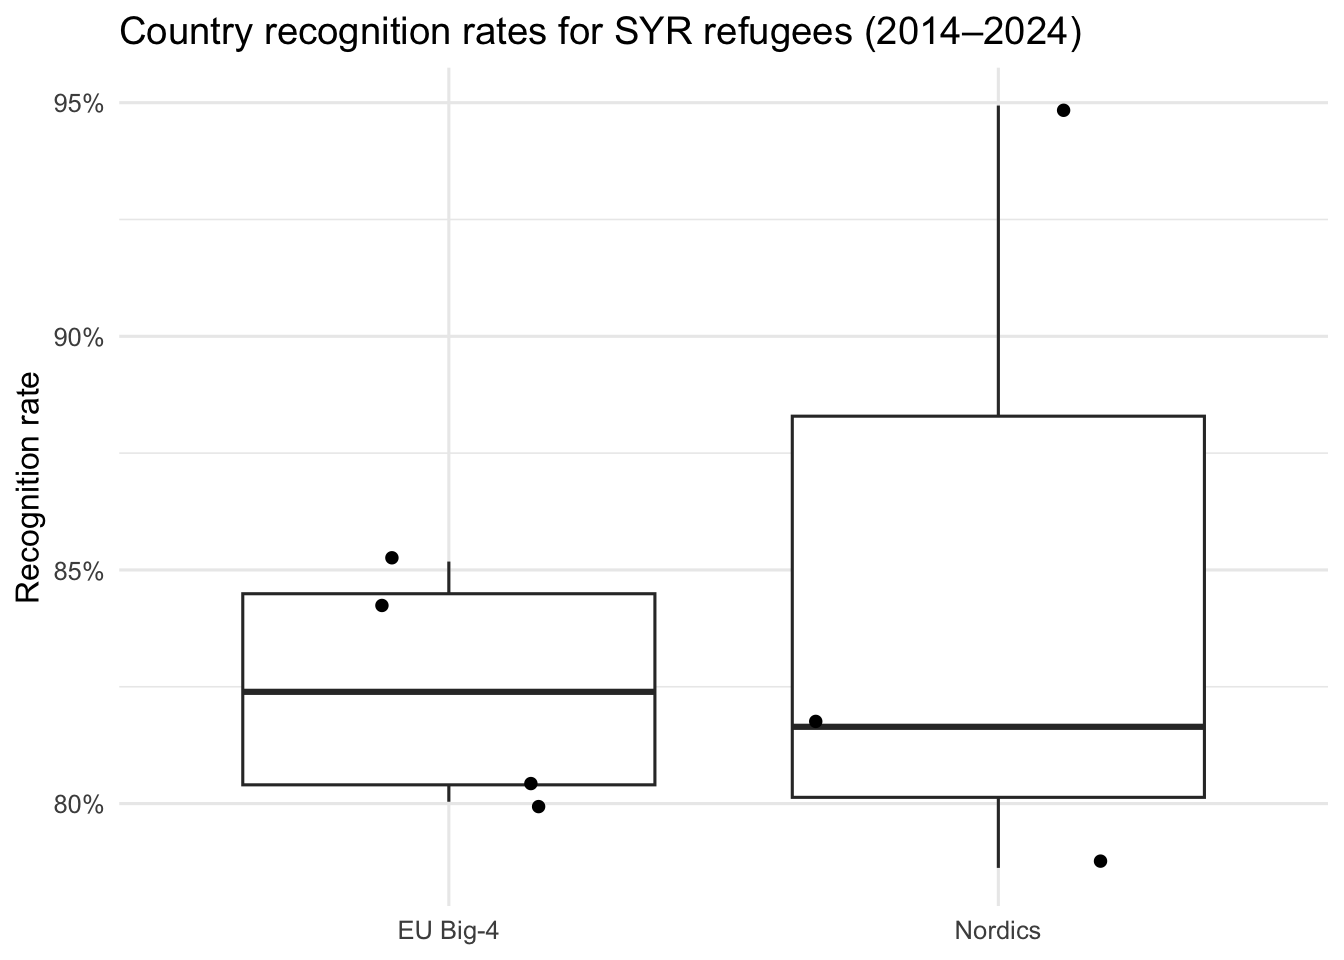
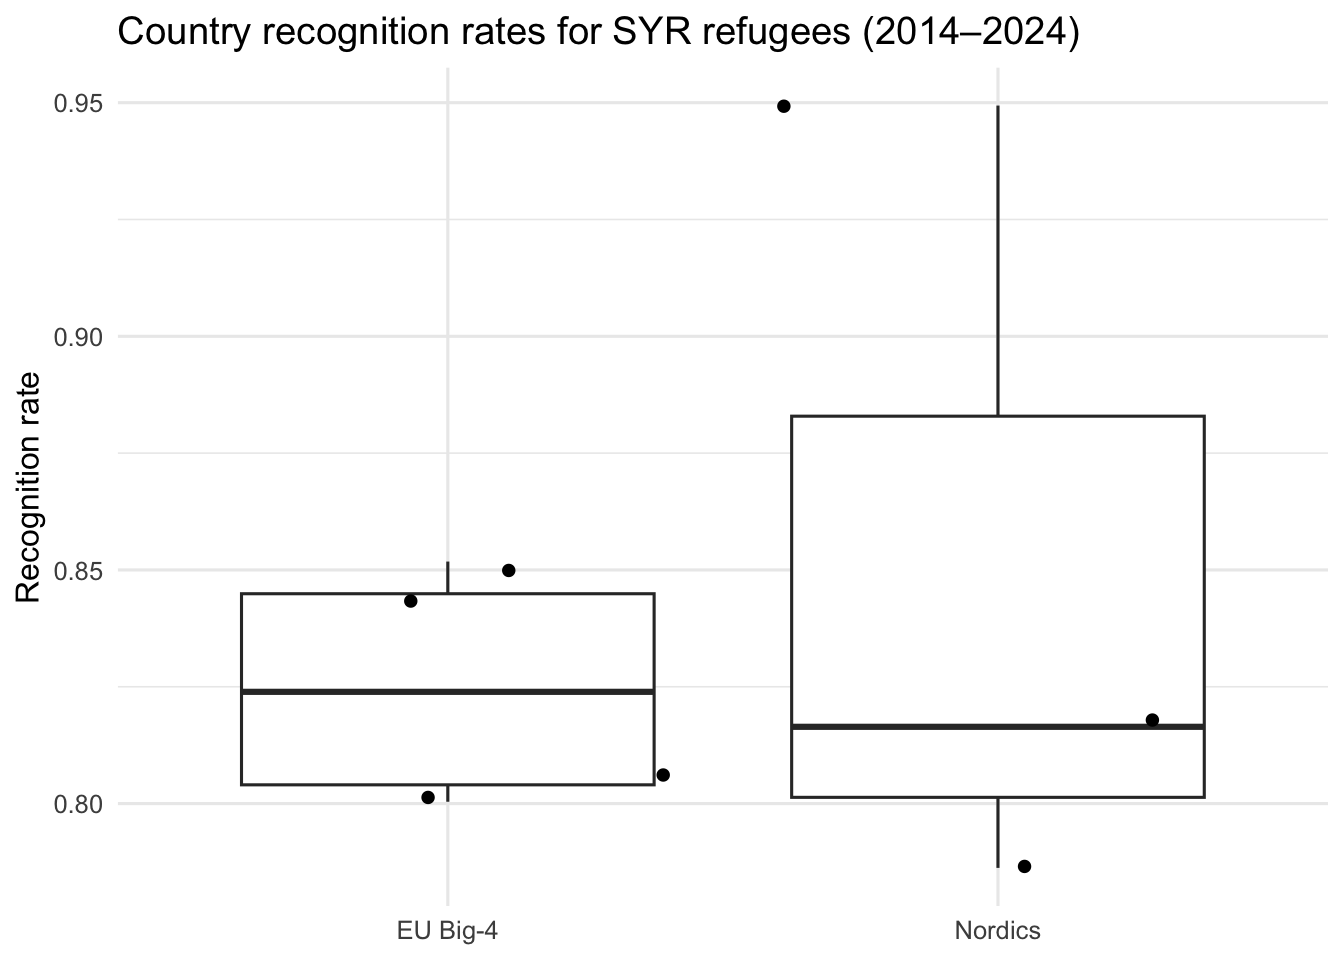
error thing

diff --git a/docs/Project_3.html b/docs/Project_3.html
@@ -264,12 +264,11 @@ pre > code.sourceCode > span > a:first-child::before { text-decoration: underlin
 <div class="sourceCode cell-code" id="cb6"><pre class="sourceCode r code-with-copy"><code class="sourceCode r"><span id="cb6-1"><a href="#cb6-1" aria-hidden="true" tabindex="-1"></a><span class="fu">ggplot</span>(ref_slice, <span class="fu">aes</span>(<span class="at">x =</span> bloc, <span class="at">y =</span> rec_rate)) <span class="sc">+</span></span>
 <span id="cb6-2"><a href="#cb6-2" aria-hidden="true" tabindex="-1"></a>  <span class="fu">geom_boxplot</span>() <span class="sc">+</span></span>
 <span id="cb6-3"><a href="#cb6-3" aria-hidden="true" tabindex="-1"></a>  <span class="fu">geom_jitter</span>()<span class="sc">+</span></span>
-<span id="cb6-4"><a href="#cb6-4" aria-hidden="true" tabindex="-1"></a>  <span class="fu">scale_y_continuous</span>(<span class="at">labels =</span> scales<span class="sc">::</span>percent) <span class="sc">+</span></span>
-<span id="cb6-5"><a href="#cb6-5" aria-hidden="true" tabindex="-1"></a>  <span class="fu">labs</span>(</span>
-<span id="cb6-6"><a href="#cb6-6" aria-hidden="true" tabindex="-1"></a>    <span class="at">title =</span> <span class="st">"Country recognition rates for SYR refugees (2014–2024)"</span>,</span>
-<span id="cb6-7"><a href="#cb6-7" aria-hidden="true" tabindex="-1"></a>    <span class="at">x =</span> <span class="cn">NULL</span>, <span class="at">y =</span> <span class="st">"Recognition rate"</span></span>
-<span id="cb6-8"><a href="#cb6-8" aria-hidden="true" tabindex="-1"></a>  ) <span class="sc">+</span></span>
-<span id="cb6-9"><a href="#cb6-9" aria-hidden="true" tabindex="-1"></a>  <span class="fu">theme_minimal</span>(<span class="at">base_size =</span> <span class="dv">12</span>)</span></code><button title="Copy to Clipboard" class="code-copy-button"><i class="bi"></i></button></pre></div>
+<span id="cb6-4"><a href="#cb6-4" aria-hidden="true" tabindex="-1"></a>  <span class="fu">labs</span>(</span>
+<span id="cb6-5"><a href="#cb6-5" aria-hidden="true" tabindex="-1"></a>    <span class="at">title =</span> <span class="st">"Country recognition rates for SYR refugees (2014–2024)"</span>,</span>
+<span id="cb6-6"><a href="#cb6-6" aria-hidden="true" tabindex="-1"></a>    <span class="at">x =</span> <span class="cn">NULL</span>, <span class="at">y =</span> <span class="st">"Recognition rate"</span></span>
+<span id="cb6-7"><a href="#cb6-7" aria-hidden="true" tabindex="-1"></a>  ) <span class="sc">+</span></span>
+<span id="cb6-8"><a href="#cb6-8" aria-hidden="true" tabindex="-1"></a>  <span class="fu">theme_minimal</span>(<span class="at">base_size =</span> <span class="dv">12</span>)</span></code><button title="Copy to Clipboard" class="code-copy-button"><i class="bi"></i></button></pre></div>
 </details>
 <div class="cell-output-display">
 <div>
